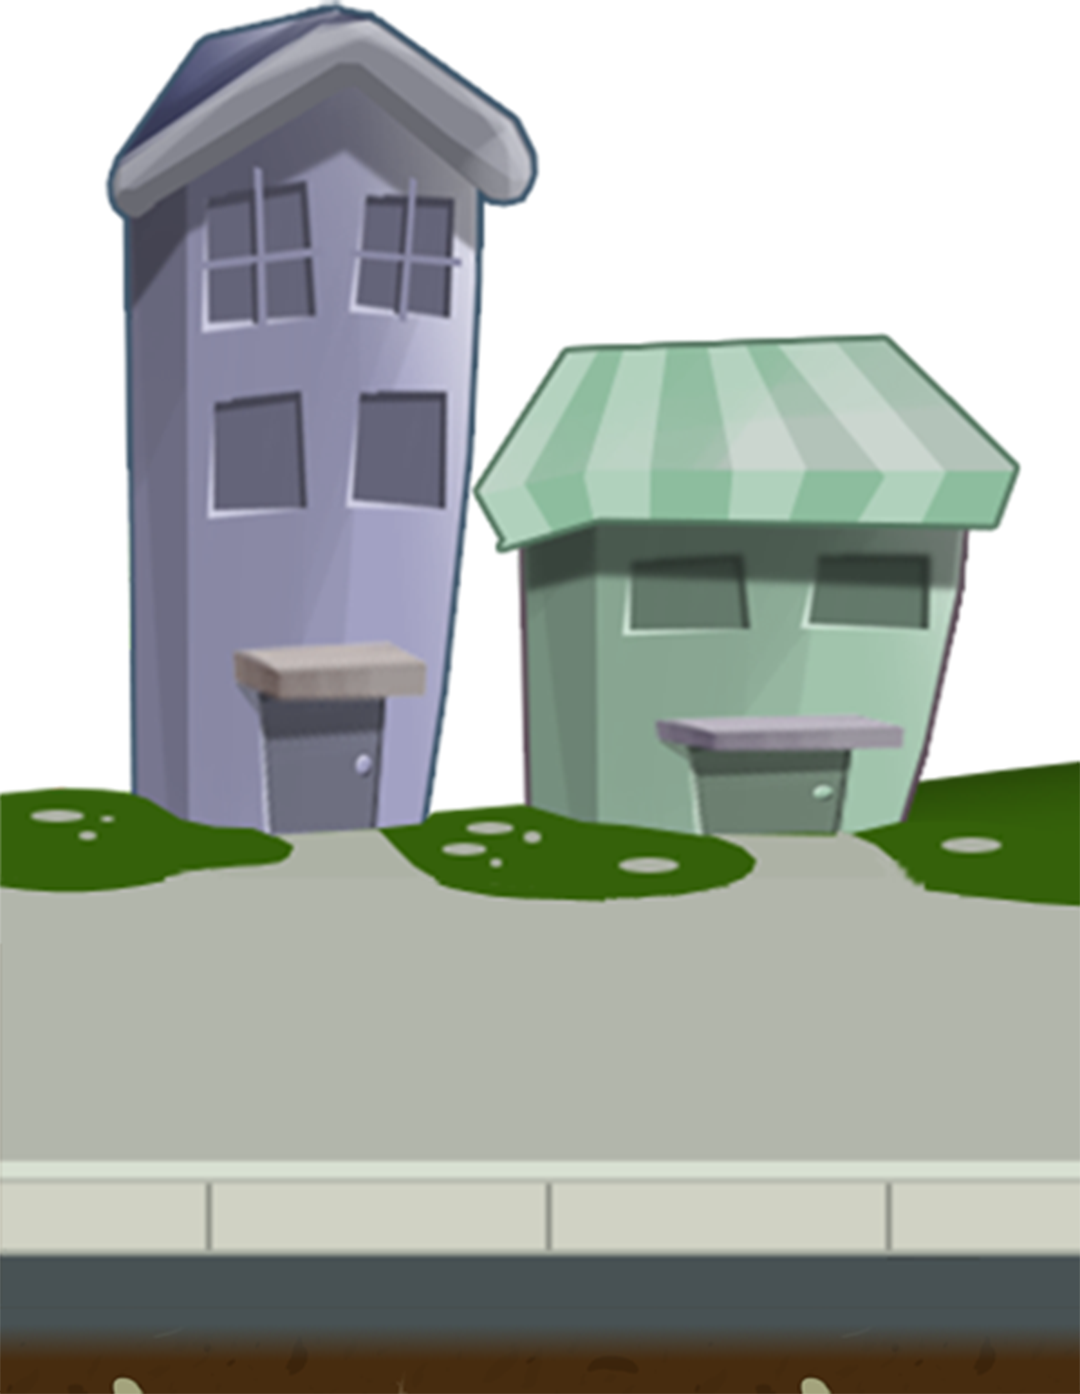
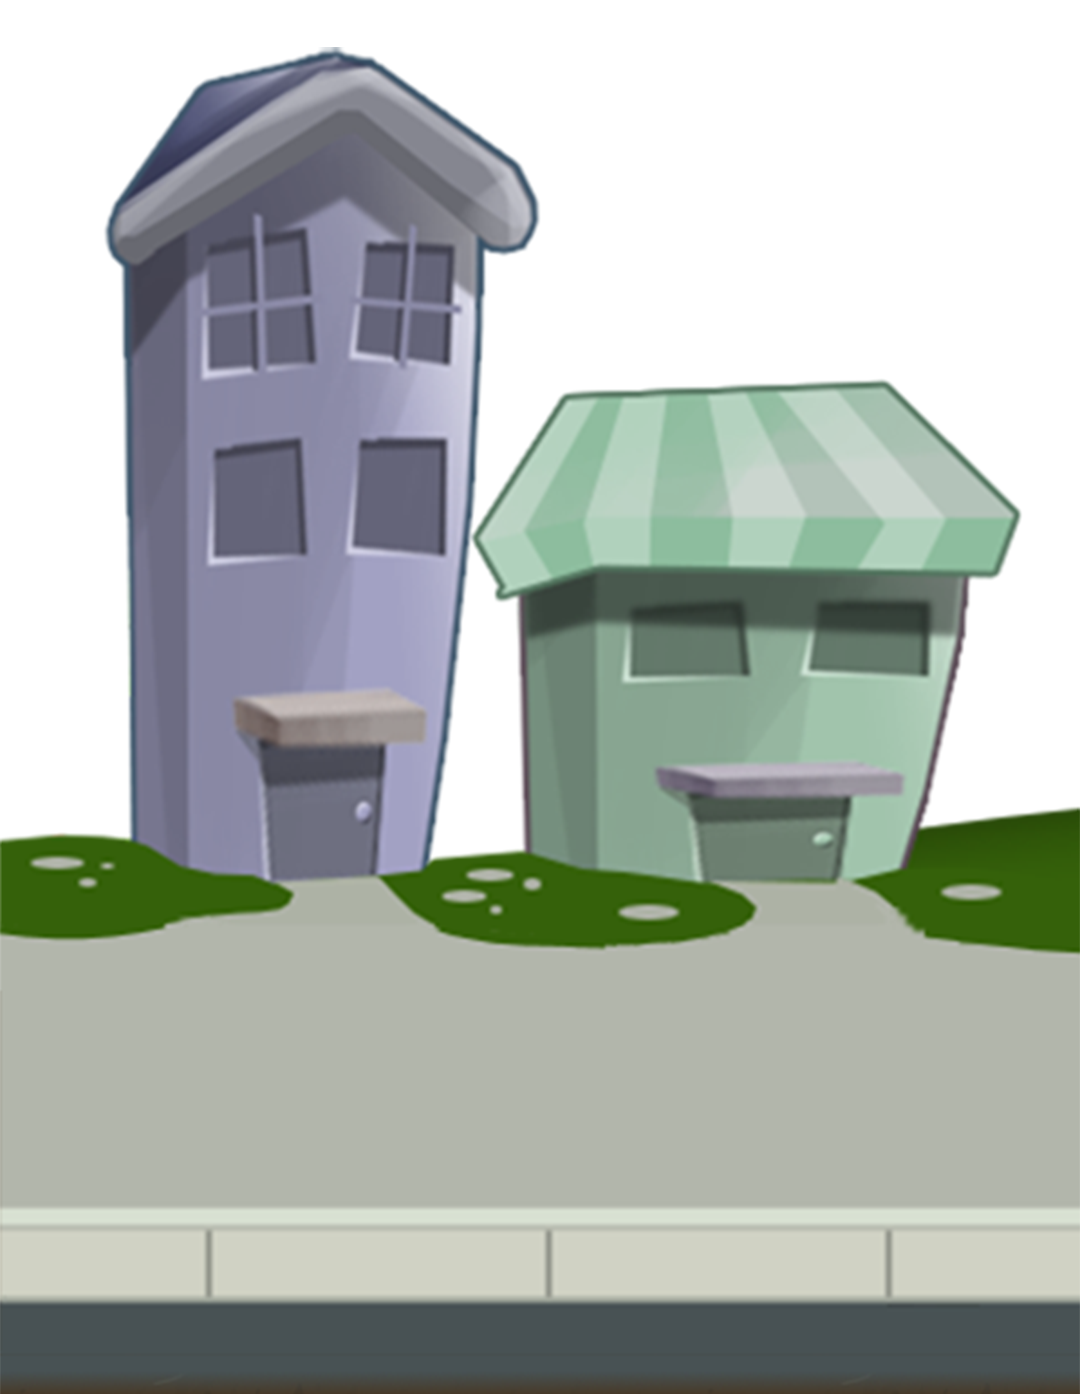
- Shadow

diff --git a/Assets/GSGameplay/Player/SCR_Player.cs b/Assets/GSGameplay/Player/SCR_Player.cs
@@ -32,12 +32,14 @@ public class SCR_Player : MonoBehaviour {
 	public const float PLAYER_SIZE				= 200;
 	public const float PLAYER_UP_FRICTION		= 5000;
 	public const float PLAYER_SLAV_RANDOM		= 200;
+	
+	public const float PLAYER_SHADOW_OFFSET		= -120;
+	public const float PLAYER_SHADOW_DISTANCE	= 1500;
 	// ==================================================
 	// Prefab
 	public	GameObject	PFB_Target;
+	public	GameObject	PFB_Shadow;
 	public	GameObject	PFB_BasicParticle;
-	
-	
 	// ==================================================
 	// Stuff
 	private Animator 	animator	= null;
@@ -57,6 +59,7 @@ public class SCR_Player : MonoBehaviour {
 	[System.NonSerialized] public 	float	targetY		= 0;
 	[System.NonSerialized] public	float	cooldown	= 0;
 	
+	private	GameObject	shadow			= null;
 	private	GameObject	target			= null;
 	private	GameObject	punchParticle	= null;
 	// ==================================================
@@ -78,6 +81,10 @@ public class SCR_Player : MonoBehaviour {
 		bossScript = SCR_Gameplay.instance.boss.GetComponent<SCR_Boss>();
 		target = Instantiate (PFB_Target);
 		target.SetActive (false);
+		
+		shadow = Instantiate (PFB_Shadow);
+		shadow.transform.position 	= new Vector3 (SCR_Gameplay.SCREEN_W * 0.5f + x, y + PLAYER_SHADOW_OFFSET, shadow.transform.position.z);
+		shadow.transform.localScale = new Vector3 (SCR_Gameplay.SCREEN_SCALE * PLAYER_SCALE * (-direction), SCR_Gameplay.SCREEN_SCALE * PLAYER_SCALE, 1);
 		
 		chargeCount = 0;
 		
@@ -218,6 +225,11 @@ public class SCR_Player : MonoBehaviour {
 		
 		transform.position 		= new Vector3 (SCR_Gameplay.SCREEN_W * 0.5f + x, y, transform.position.z);
 		transform.localScale 	= new Vector3 (SCR_Gameplay.SCREEN_SCALE * PLAYER_SCALE * (-direction), SCR_Gameplay.SCREEN_SCALE * PLAYER_SCALE, 1);
+		
+		float shadowScale = 1 - (y - PLAYER_START_Y) / PLAYER_SHADOW_DISTANCE;
+		if (shadowScale < 0) shadowScale = 0;
+		shadow.transform.position 	= new Vector3 (SCR_Gameplay.SCREEN_W * 0.5f + x, shadow.transform.position.y, shadow.transform.position.z);
+		shadow.transform.localScale = new Vector3 (SCR_Gameplay.SCREEN_SCALE * PLAYER_SCALE * shadowScale, SCR_Gameplay.SCREEN_SCALE * PLAYER_SCALE * shadowScale, 1);
 	
 		if (cooldown > 0) {
 			cooldown -= dt;

diff --git a/Assets/GSGameplay/Boss/SCR_Boss.cs b/Assets/GSGameplay/Boss/SCR_Boss.cs
@@ -25,6 +25,12 @@ public class SCR_Boss : MonoBehaviour {
 	public const float BOSS_RUN_SPEED		= 600.0f;
 	public const float BOSS_MAX_SPEED_X		= 1000.0f;
 	public const float BOSS_SIZE			= 200;
+	
+	public const float BOSS_SHADOW_OFFSET	= -120;
+	public const float BOSS_SHADOW_DISTANCE	= 1500;
+	// ==================================================
+	// Prefab
+	public	GameObject	PFB_Shadow;
 	// ==================================================
 	// Stuff
 	private Animator 	animator	= null;
@@ -39,6 +45,8 @@ public class SCR_Boss : MonoBehaviour {
 	public float	rotation	= 0;
 	public float	rotateSpeed	= 0;
 	public bool		getHit		= false;
+	
+	private	GameObject	shadow	= null;
 	// ==================================================
 	
 	
@@ -54,6 +62,10 @@ public class SCR_Boss : MonoBehaviour {
 		y = BOSS_START_Y;
 		transform.position 		= new Vector3 (SCR_Gameplay.SCREEN_W * 0.5f + x, y, transform.position.z);
 		transform.localScale 	= new Vector3 (SCR_Gameplay.SCREEN_SCALE * BOSS_SCALE * direction, SCR_Gameplay.SCREEN_SCALE * BOSS_SCALE, 1);
+		
+		shadow = Instantiate (PFB_Shadow);
+		shadow.transform.position 	= new Vector3 (SCR_Gameplay.SCREEN_W * 0.5f + x, y + BOSS_SHADOW_OFFSET, shadow.transform.position.z);
+		shadow.transform.localScale = new Vector3 (SCR_Gameplay.SCREEN_SCALE * BOSS_SCALE * (-direction), SCR_Gameplay.SCREEN_SCALE * BOSS_SCALE, 1);
 		
 		rotation = 0;
 		
@@ -162,6 +174,11 @@ public class SCR_Boss : MonoBehaviour {
 		transform.position 			= new Vector3 (SCR_Gameplay.SCREEN_W * 0.5f + x, y, transform.position.z);
 		transform.localScale 		= new Vector3 (SCR_Gameplay.SCREEN_SCALE * BOSS_SCALE * direction, SCR_Gameplay.SCREEN_SCALE * BOSS_SCALE, 1);
 		transform.localEulerAngles 	= new Vector3 (0, 0, rotation);
+		
+		float shadowScale = 1 - (y - BOSS_START_Y) / BOSS_SHADOW_DISTANCE;
+		if (shadowScale < 0) shadowScale = 0;
+		shadow.transform.position 	= new Vector3 (SCR_Gameplay.SCREEN_W * 0.5f + x, shadow.transform.position.y, shadow.transform.position.z);
+		shadow.transform.localScale = new Vector3 (SCR_Gameplay.SCREEN_SCALE * BOSS_SCALE * shadowScale, SCR_Gameplay.SCREEN_SCALE * BOSS_SCALE * shadowScale, 1);
 	}
 	// ==================================================
 	

diff --git a/Assets/GSGameplay/Background/SCR_Background.cs b/Assets/GSGameplay/Background/SCR_Background.cs
@@ -11,7 +11,7 @@ public class SCR_Background : MonoBehaviour {
 	private const int 	BACKGROUND_PART 			= 5;
 	
 	private const float BACKGROUND_SCROLL_RATIO		= 0.02f;
-	private const float MIDDLEGROUND_SCROLL_RATIO	= 0.4f;
+	private const float MIDDLEGROUND_SCROLL_RATIO	= 0.2f;
 	private const float FOREGROUND_SCROLL_RATIO		= 1.0f;
 	
 	private const float MIDDLEGROUND_OFFSET			= 100;
@@ -94,10 +94,10 @@ public class SCR_Background : MonoBehaviour {
 			instance.background[BACKGROUND_PART-1].transform.position = new Vector3 (SCR_Gameplay.SCREEN_W * 0.5f, -backgroundY + cameraY + BACKGROUND_HEIGHT, instance.background[BACKGROUND_PART-1].transform.position.z);
 		}
 		
-		float middlegroundY = cameraY * (1 + MIDDLEGROUND_SCROLL_RATIO);
+		float middlegroundY = cameraY * (-1 + MIDDLEGROUND_SCROLL_RATIO);
 		instance.middleground.transform.position = new Vector3 (SCR_Gameplay.SCREEN_W * 0.5f, -middlegroundY + MIDDLEGROUND_OFFSET, instance.middleground.transform.position.z);
 		
-		float foregroundY = cameraY * (1 + FOREGROUND_SCROLL_RATIO);
+		float foregroundY = cameraY * (-1 + FOREGROUND_SCROLL_RATIO);
 		instance.foreground.transform.position = new Vector3 (SCR_Gameplay.SCREEN_W * 0.5f, -foregroundY, instance.foreground.transform.position.z);
 		
 		for (int i=0; i<instance.cloudY.Length; i++) {
